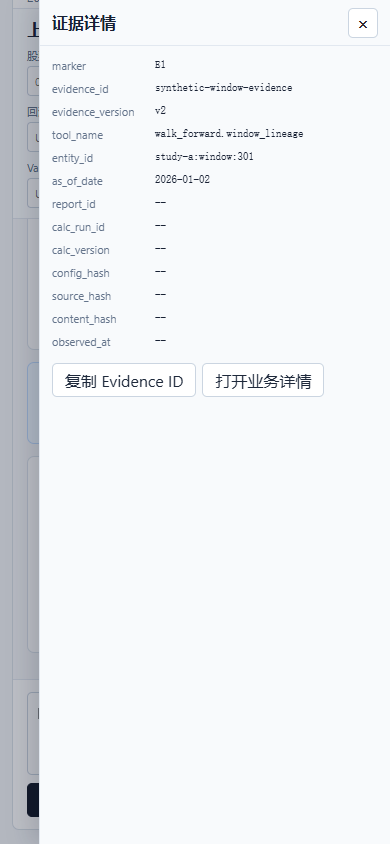
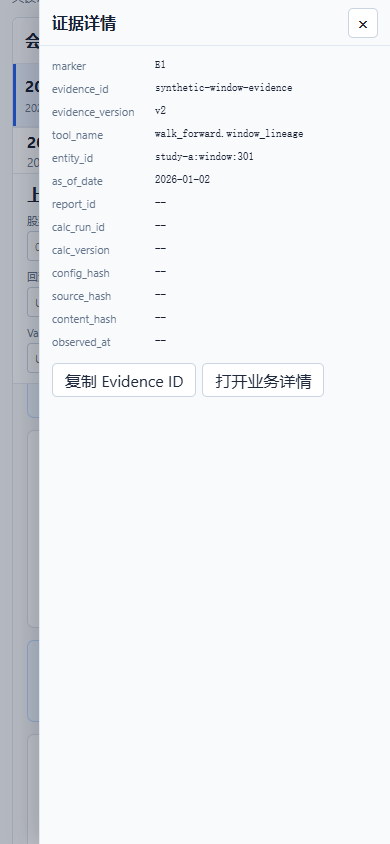
fix: keep workbench reading position after send

diff --git a/frontend/src/components/AgentResearchWorkbench.vue b/frontend/src/components/AgentResearchWorkbench.vue
@@ -649,7 +649,7 @@ function uniqueMessages(rows: AgentMessage[]) {
 
 async function scrollToEnd() {
   await nextTick();
-  streamRef.value?.scrollTo({ top: streamRef.value.scrollHeight, behavior: "smooth" });
+  if (streamRef.value) streamRef.value.scrollTop = streamRef.value.scrollHeight;
 }
 
 async function restorePosition(chatId: string) {

diff --git a/frontend/src/components/AgentResearchWorkbench.test.ts b/frontend/src/components/AgentResearchWorkbench.test.ts
@@ -220,6 +220,8 @@ it("does not force scroll to the bottom when the reader moved upward", async () 
   delayed.resolve({});
   await flushPromises();
   expect(stream.scrollTop).toBe(100);
+  await new Promise((resolve) => setTimeout(resolve, 0));
+  expect(stream.scrollTop).toBe(100);
 });
 
 it.each([
